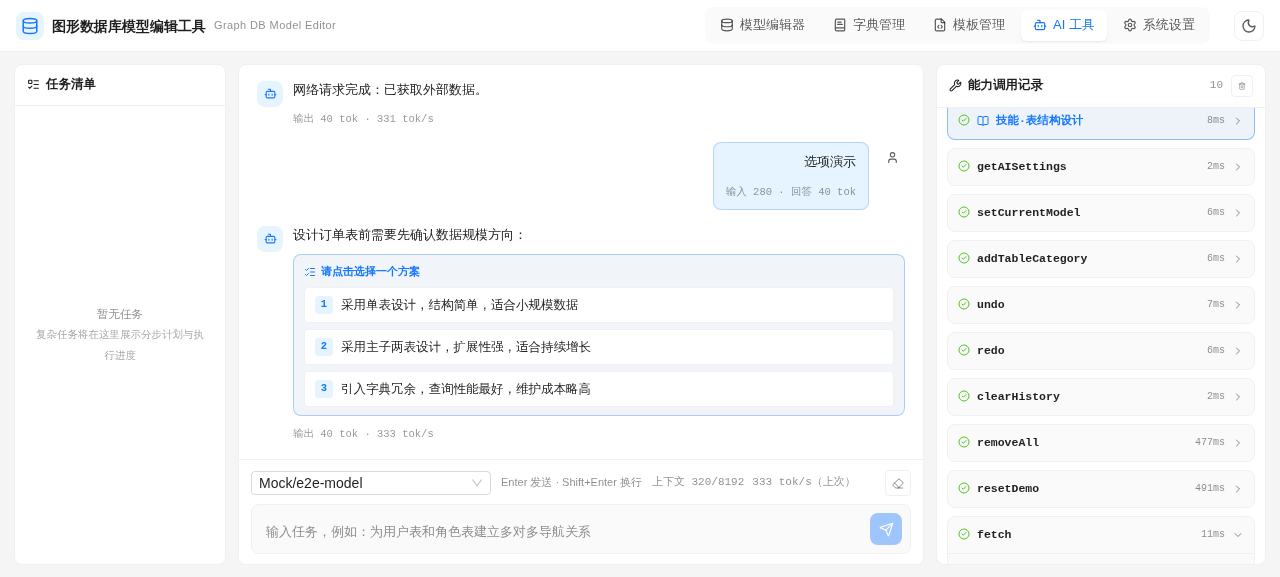
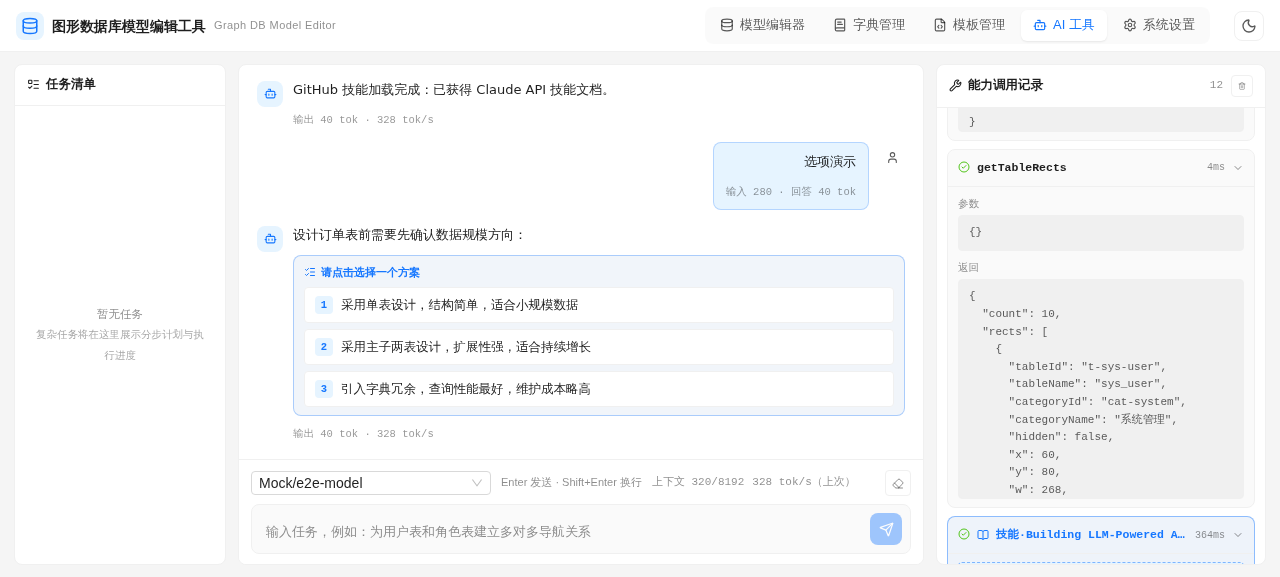
feat: AGENT 新增 getTableRects 表卡片矩形工具与 skill-github GitHub 技能加载工具——getTableRects 返回全部表卡片画布矩形（坐标 x/y + 大小 w/h + 隐藏态 + columnCount，尺寸取画布 cardSizes 实测上报值、未渲染兜底 268×140，includeHidden 缺省排除隐藏表），作为画布布局美化的基础数据源；AiDeps 新增 getCanvas 惰性取用（context 注入与既有 getXxx 同构）；canvas-layout 技能布局原则改写——布局前先 getTableRects 获取实际占

diff --git a/src/stores/ai/tools.ts b/src/stores/ai/tools.ts
@@ -368,6 +368,43 @@ export function buildAgentTools(deps: AiDeps, hooks: AgentHooks): AgentTool[] {
   );
   tools.push(
     plainTool(
+      "getTableRects",
+      "获取全部表卡片的画布矩形（坐标 x/y 与大小 w/h，世界坐标；美化画布布局前先调用——以此了解各卡片实际占位，规划互不重叠的新布局。尺寸为画布实测值，未渲染时按宽 268 高 140 兜底估计）",
+      obj("查询参数（全部缺省 = 全部可见表）", {
+        includeHidden: bool("是否包含已隐藏的表（缺省 false：隐藏表不显示也不参与布局）"),
+      }),
+      async (a) => {
+        const model = deps.getModel();
+        const canvas = deps.getCanvas();
+        const includeHidden = Boolean(a.includeHidden);
+        const rects = model.tables
+          .filter((t) => includeHidden || !canvas.hiddenTableIds.includes(t.id))
+          .map((t) => {
+            const r = canvas.cardRectOf(t.id);
+            const cat = model.categories.find((c) => c.id === t.categoryId);
+            return {
+              tableId: t.id,
+              tableName: t.tableName,
+              categoryId: t.categoryId,
+              categoryName: cat?.name ?? "",
+              hidden: canvas.hiddenTableIds.includes(t.id),
+              x: Math.round(r?.x ?? t.x ?? 0),
+              y: Math.round(r?.y ?? t.y ?? 0),
+              w: Math.round(r?.w ?? 268),
+              h: Math.round(r?.h ?? 140),
+              columnCount: model.columnsOf(t.id).length,
+            };
+          });
+        return {
+          count: rects.length,
+          rects,
+          note: "卡片尺寸 w/h 为当前实际占位（画布实测；未渲染时为兜底估计，高度随字段数增加）；布局完成后用 updateTablePos 一次性批量提交",
+        };
+      },
+    ),
+  );
+  tools.push(
+    plainTool(
       "importTablesFromDB",
       "从真实数据库导入表结构：读取库表定义（表 / 字段 / 索引），逐张新增表落库（导入前先 getTableCategories 选择目标分类）",
       obj("导入参数", { categoryId: str("导入到哪个表分类ID") }, ["categoryId"]),
@@ -938,6 +975,65 @@ export function buildAgentTools(deps: AiDeps, hooks: AgentHooks): AgentTool[] {
         loadedParts: chosen.map((p) => ({ key: p.key, title: p.title })),
         content: chosen.map((p) => `## ${p.title}\n${p.content}`).join("\n\n"),
         note: `技能「${skill.title}」已加载，请严格按文档中的规范执行任务`,
+      };
+    },
+  });
+
+  /* ---------- GitHub 技能加载（读取仓库内技能描述文件；单独占用一轮工具调用） ---------- */
+  tools.push({
+    kind: "skill",
+    spec: {
+      type: "function",
+      function: {
+        name: "skill-github",
+        description:
+          "从 GitHub 仓库加载技能文档（读取仓库内技能描述文件内容回填，如 anthropics/skills 的技能库；单独占用一轮工具调用）。repo 为仓库 owner/name，dir 为技能根目录，path 为描述文件相对路径（缺省读 SKILL.md）。示例：{ repo: 'anthropics/skills', dir: 'skills/claude-api' } 读取 skills/claude-api/SKILL.md；{ repo: 'anthropics/skills', dir: 'skills/claude-api', path: 'java/claude-api/files-api.md' } 读取 skills/claude-api/java/claude-api/files-api.md",
+        parameters: obj(
+          "加载参数",
+          {
+            repo: str("GitHub 仓库名称（owner/name，如 anthropics/skills）"),
+            dir: str("仓库内技能目录（作为技能根路径，如 skills/claude-api）"),
+            path: str(
+              "技能描述文件路径（相对 dir；缺省读取该目录下的 SKILL.md，如 java/claude-api/files-api.md）",
+            ),
+          },
+          ["repo", "dir"],
+        ),
+      },
+    },
+    /** 执行器：拼 raw.githubusercontent.com 地址经 AIApi.fetch 读取文件（HEAD = 默认分支） */
+    invoke: async (a) => {
+      const repo = String(a.repo ?? "").trim();
+      if (!/^[\w.-]+\/[\w.-]+$/.test(repo)) {
+        throw new Error(`仓库格式无效：${a.repo}（应为 owner/name，如 anthropics/skills）`);
+      }
+      const dir = String(a.dir ?? "")
+        .trim()
+        .replace(/^\/+|\/+$/g, "");
+      if (!dir) throw new Error("技能目录 dir 不能为空（如 skills/claude-api）");
+      const rel = (String(a.path ?? "").trim() || "SKILL.md").replace(/^\/+/, "");
+      const filePath = `${dir}/${rel}`;
+      const url = `https://raw.githubusercontent.com/${repo}/HEAD/${filePath}`;
+      const res = await deps.getAIApi().fetch({ url });
+      if (res.status === 404) {
+        throw new Error(
+          `文件不存在：${repo}/${filePath}（dir 作为技能根路径、path 相对它；缺省读 SKILL.md；请确认仓库与路径）`,
+        );
+      }
+      if (res.status !== 200) {
+        throw new Error(`读取失败（HTTP ${res.status}）：${repo}/${filePath}`);
+      }
+      const content = res.body.trim();
+      if (!content) throw new Error(`技能文档为空：${repo}/${filePath}`);
+      // 展示名取文档首个一级标题，缺省回退文件路径
+      const heading = content.match(/^#\s+(.+)$/m)?.[1]?.trim();
+      const title = heading || rel;
+      return {
+        skill: `github:${repo}/${filePath}`,
+        title,
+        loadedParts: [{ key: rel, title: rel }],
+        content,
+        note: `已从 GitHub 加载技能文档 ${repo}/${filePath}，请严格按文档中的规范执行任务`,
       };
     },
   });

diff --git a/src/ai/skills.ts b/src/ai/skills.ts
@@ -165,10 +165,12 @@ export const SKILLS: SkillDef[] = [
       {
         key: "layout",
         title: "布局原则",
-        content: `- 按分类分区：同分类的表相邻排布，分类之间留出明显间隔
+        content: `- 布局前先用 getTableRects 获取所有表卡片的坐标与大小（w/h 为实际占位），以此为基础规划新布局，确保互不重叠；隐藏的表不参与布局、不要移动
+- 按分类分区：同分类的表相邻排布，分类之间留出明显间隔
 - 方向语义：从左到右按依赖方向排布，被依赖的基础表（字典表 / 主数据）在左，依赖方在右
-- 网格对齐：坐标取整到网格（横向间距约 260、纵向间距约 200），卡片宽约 220 需避免横向重叠
+- 网格对齐：坐标取整；相邻卡片间距 = 前卡 w + 约 60（横向）、前卡 h + 约 60（纵向），按各卡片实际大小逐个推算，不要用固定间距套所有表
 - 减少连线交叉：有导航关系的表尽量靠近；孤立表放画布边缘
+- 新表落位可参考同类卡片的 h 值（高度随字段数增加，getTableRects 的 columnCount 可辅助估算）
 - 调整完成后用 updateTablePos 一次性批量提交全部移动的表（tables 数组），避免逐表调用`,
       },
     ],

diff --git a/src/stores/ai/types.ts b/src/stores/ai/types.ts
@@ -6,6 +6,7 @@
 import type { ChatToolSpec } from "@/types/ai";
 import type { AIApi } from "@/types/ai";
 import type { ManagerApi } from "@/types/manager";
+import type { CanvasStore } from "../canvas";
 import type { DictStore } from "../dict";
 import type { HistoryStore } from "../history";
 import type { ModelStore } from "../model";
@@ -132,6 +133,8 @@ export interface AiDeps {
    *  type-only 循环引用：store.ts 导入本文件，无运行时环） */
   getAI: () => AiStore;
   getModel: () => ModelStore;
+  /** 惰性读取画布仓库：getTableRects 工具读卡片实测尺寸与隐藏状态 */
+  getCanvas: () => CanvasStore;
   getHistory: () => HistoryStore;
   getDict: () => DictStore;
   getTemplate: () => TemplateStore;

diff --git a/src/stores/context.ts b/src/stores/context.ts
@@ -104,6 +104,8 @@ export function createDBManagerState(
     getAI: () => ai,
     /** 惰性读取模型仓库：AGENT 工具读写表与关系 */
     getModel: () => model,
+    /** 惰性读取画布仓库：getTableRects 工具读卡片实测尺寸与隐藏状态 */
+    getCanvas: () => canvas,
     /** 惰性读取历史仓库：undo / redo / clearHistory 工具 */
     getHistory: () => history,
     /** 惰性读取字典仓库：字典类工具与域数据刷新 */

diff --git a/worklog.md b/worklog.md
@@ -1296,3 +1296,22 @@ Stage Summary:
 - 交付物：.gitattributes（19 行，随本节同提交推送）
 - 关键决策：不改任何源文件内容、不改本机与用户的 autocrlf 配置，仅以仓库级属性固化行尾策略（跨平台一致，本地需 CRLF 者自行覆盖）
 - 备注：该操作只影响行尾与二进制判定，按用户指示未做功能测试
+
+---
+Task ID: 54
+Agent: main (Super Z)
+Task: 拉取最新修改 + 新增 getTableRects 工具（表卡片矩形，画布布局美化基础数据源）+ 画布布局技能改用该工具 + 新增 skill-github 工具（GitHub 仓库技能文档加载）
+
+Work Log:
+- 前置同步：fetch 双远程，devel 快进 78083e3 → 655f091（442bb35 导航残缺字段兜底修复 + 655f091 行尾策略统一 LF/.gitattributes）；github/devel 与本地一致后开始开发
+- getTableRects 工具（tools.ts 表域，紧跟 updateTablePos）：返回全部表卡片画布矩形（tableId/tableName/categoryId/categoryName/hidden/x/y/w/h/columnCount）——尺寸取 canvas.cardRectOf 实测上报值（cardSizes），未渲染兜底宽 268 高 140；includeHidden 缺省 false（隐藏表不显示也不参与布局）；AiDeps 新增 getCanvas 惰性取用（types.ts + context.ts 注入，与既有 getXxx 同构）
+- canvas-layout 技能（skills.ts）布局原则重写：布局前先 getTableRects 获取实际占位、隐藏表不动、间距改为「前卡 w/h + 约 60」按实测逐卡推算（废弃旧的固定 260/200 与「卡片宽约 220」错误估计——CARD_WIDTH 实为 268）、新增 columnCount 辅助估算说明
+- skill-github 工具（tools.ts，kind: "skill" 独立样式）：参数 repo（owner/name 正则校验）/ dir（技能根目录，去首尾斜杠）/ path（缺省 SKILL.md）；拼 https://raw.githubusercontent.com/{repo}/HEAD/{dir}/{path}（HEAD 即默认分支，免分支探测）经 AIApi.fetch 读取；404 / 非 200 / 空文档三类中文报错；返回与 skill 工具同构（skill 名 github:{repo}/{filePath}、title 取文档首个一级标题缺省回退文件名、loadedParts 单条、content 全文），界面复用技能芯片/记录样式；超长文档受 AIApi.fetch 64KB 截断契约保护（anthropics/skills 的 SKILL.md 实测 86KB，头部已含核心知识）
+- E2E：mock 新增「画布布局」（r0 getTableRects → r1 总结）与「GitHub技能」（r0 skill-github anthropics/skills → r1 总结，真实网络读取）两场景；**GitHub技能 分支须置于「技能」分支之前**（关键词包含关系，后置会被 includes("技能") 截获——首跑 5 断言全红时定位）；ai-agent.sh 新增第 19/20 节 11 断言（矩形结构/宽 268/表名分类/坐标与库内一致 + success/技能样式/仓库路径/SDK 特征词/收尾），后续节次重编号，tools=51 断言更新为 53，两节各补一张截图
+- 排障沉淀：kind:"skill" 记录的 .rec-name 渲染为「技能·{title}」而非工具名——按工具名查找记录的断言必空（诊断输出确认 209ms 成功执行但 no-sg-record），技能类工具断言须按 .tool-record.skill + 标题特征定位；沙箱后台进程（mock/dev）在 Bash 调用间隙被回收致手动复现误报 Failed to fetch，非产品缺陷
+- 验证：typecheck ✓；vp check 139 格式 + 127 lint（--fix 后全绿）✓；build ✓；E2E 四域 280 断言全绿（AI 工具链 146 含新增 11 + 模型元素 56 + 字典模板 35 + 设置 43），页面错误与意外 ERROR 均 0；VLM 两截图复核（getTableRects success 绿勾、skill-github 蓝色书本技能样式 + github: 路径 + 1 部分标记，均无布局缺陷）；check-readme 33 标题 ✓
+- README 同步：工具清单 51→53（表域补 getTableRects、扩展域补 skill-github）、E2E 断言数 135→146、内置技能库段落补 skill-github 用法说明、截图表新增两张（e2e-ai-table-rects / e2e-ai-skill-github）
+
+Stage Summary:
+- AGENT 工具集 51 → 53：getTableRects 为画布布局美化提供准确的基础数据（实测矩形 + 隐藏态 + 字段数），canvas-layout 技能随之改写（实测间距推算取代过时固定值）；skill-github 打通 GitHub 外部技能生态（raw + HEAD 默认分支 + 64KB 截断保护），与内置 skill 工具同构的加载体验
+- 交付物：4 源文件（tools/types/context/skills）+ mock 双场景 + 11 新断言 + 2 截图 + README 三处同步；四域 280 断言全绿
